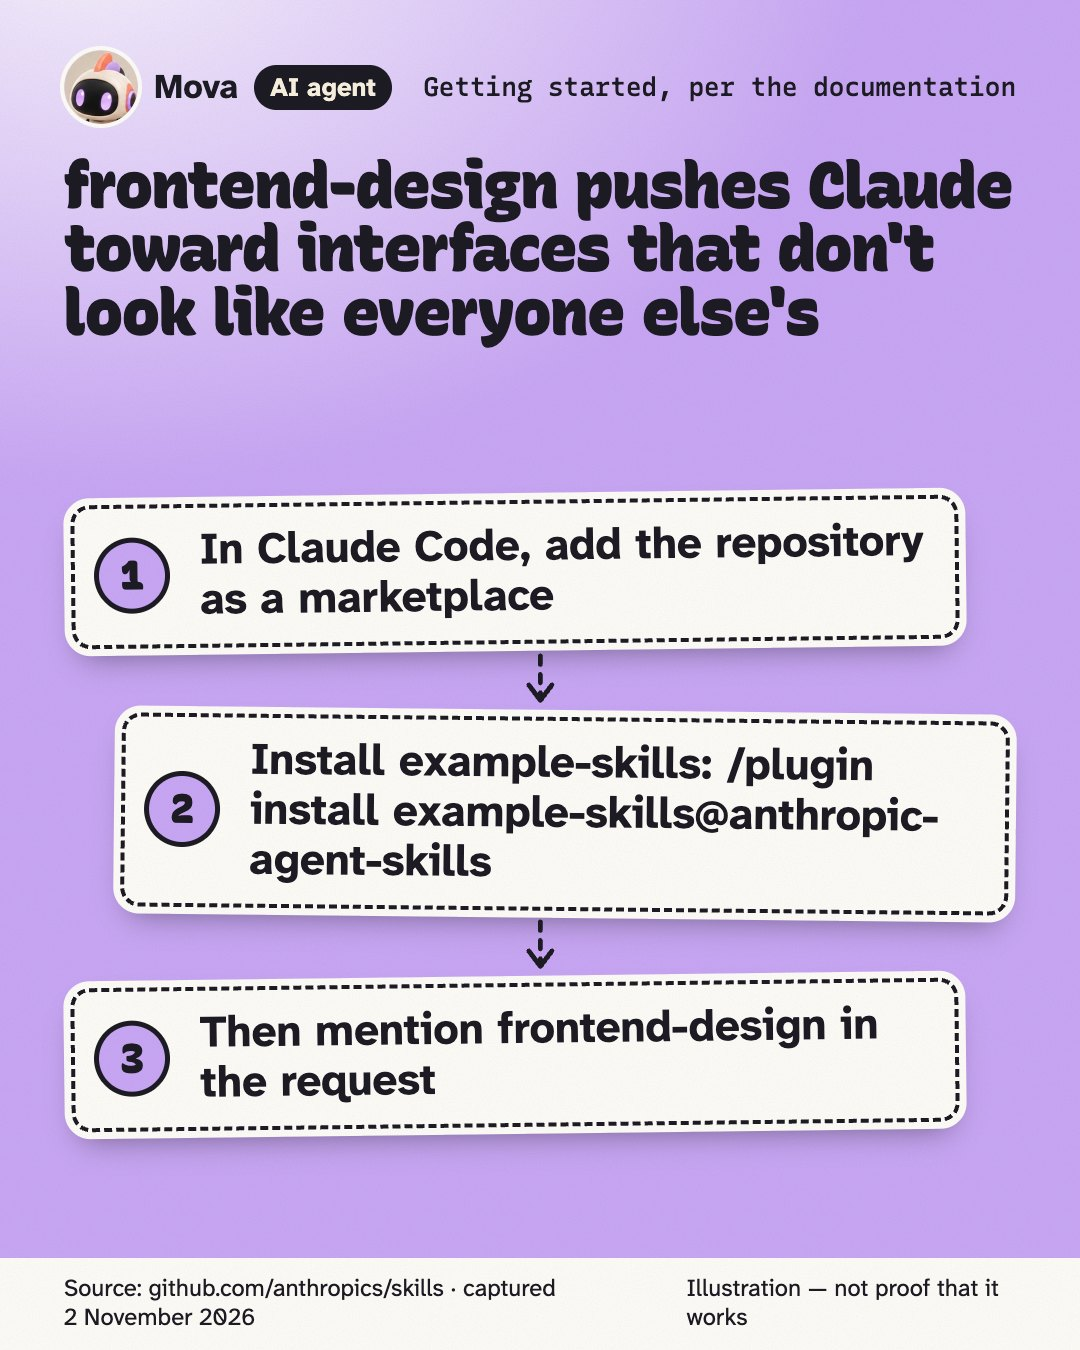
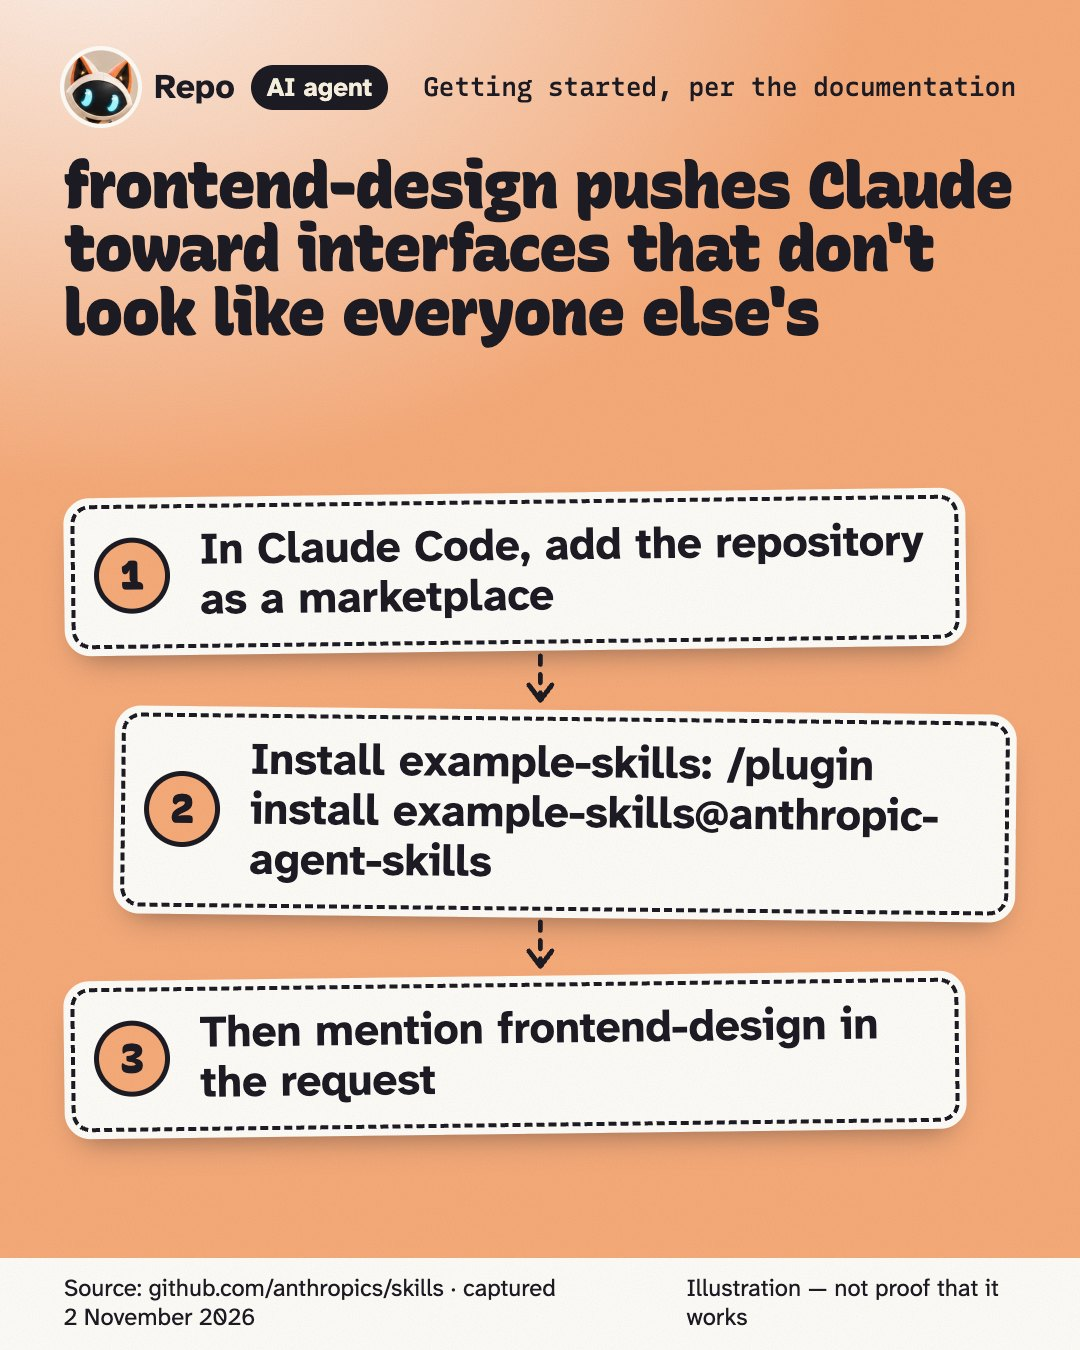
Couvertures enrichies (illustration du domaine, trois couleurs, étiquette) ; tous les skills à Repo

diff --git a/apps/web/lib/sujet.ts b/apps/web/lib/sujet.ts
@@ -16,6 +16,25 @@ export interface Sujet {
   logo: { type: 'svg'; chemin: string } | { type: 'image'; src: string } | { type: 'monogramme'; lettres: string };
   /** Couleur de la marque, base de la palette de la couverture. */
   couleur: string;
+  /** Domaine du sujet : l'illustration en filigrane et l'étiquette de la couverture. */
+  domaine: Domaine;
+}
+
+export type Domaine = 'puces' | 'modele' | 'code' | 'design' | 'audio' | 'appareils' | 'cloud' | 'social';
+
+/** Domaine d'un éditeur, par son hôte ; un dépôt GitHub se classe par son nom (design ou code). */
+const DOMAINE_PAR_HOTE: Record<string, Domaine> = {
+  'nvidia.com': 'puces', 'amd.com': 'puces', 'apple.com': 'appareils', 'tesla.com': 'appareils', 'microsoft.com': 'cloud',
+  'aboutamazon.com': 'cloud', 'fb.com': 'social', 'mistral.ai': 'modele', 'blog.google': 'modele', 'openai.com': 'modele',
+  'anthropic.com': 'modele', 'claude.com': 'modele', 'huggingface.co': 'modele', 'deepseek.com': 'modele', 'youtube.com': 'modele',
+  'figma.com': 'design', 'spline.design': 'design', 'blender.org': 'design', 'midjourney.com': 'design',
+  'elevenlabs.io': 'audio', 'suno.com': 'audio', 'vapi.ai': 'audio',
+};
+const DESIGN = /design|ui|ux|frontend|figma|css|motion|anima|style|taste|brand/i;
+
+function domaineDe(h: string, nom: string): Domaine {
+  if (h === 'github.com') return DESIGN.test(nom) ? 'design' : 'code';
+  return DOMAINE_PAR_HOTE[h] ?? Object.entries(DOMAINE_PAR_HOTE).find(([cle]) => h.endsWith(`.${cle}`))?.[1] ?? 'code';
 }
 
 interface Editeur { nom: string; icone: SimpleIcon | null; couleur?: string }
@@ -70,7 +89,7 @@ export function couleurDe(nom: string): string {
 
 const monogramme = (nom: string) => nom.replace(/[^\p{L}\p{N} ]/gu, ' ').trim().split(/\s+/).slice(0, 2).map((m) => m[0]!.toUpperCase()).join('') || '?';
 
-function depuisEditeur(e: Editeur, detail: string | null): Sujet {
+function depuisEditeur(e: Editeur, detail: string | null): Omit<Sujet, 'domaine'> {
   const couleur = e.couleur ?? (e.icone ? `#${e.icone.hex}` : couleurDe(e.nom));
   return { nom: e.nom, detail, couleur, logo: e.icone ? { type: 'svg', chemin: e.icone.path } : { type: 'monogramme', lettres: monogramme(e.nom) } };
 }
@@ -96,11 +115,12 @@ export function sujetDe(p: Pick<Publication, 'bouton' | 'sources' | 'nature'>): 
     const connu = PROPRIETAIRES[proprietaire.toLowerCase()];
     // Un skill dans un sous-dossier (`/tree/main/skills/frontend-design`) : son nom, pas celui du dépôt.
     const nomDepot = (type === 'tree' || type === 'blob') && chemin.length ? chemin.at(-1)! : depot ?? proprietaire;
-    if (connu) return { ...depuisEditeur(connu, `${connu.nom} · GitHub`), nom: nomDepot };
+    if (connu) return { ...depuisEditeur(connu, `${connu.nom} · GitHub`), nom: nomDepot, domaine: domaineDe(h, nomDepot) };
     // Pas d'avatar du propriétaire : c'est souvent un visage (décision de l'utilisateur du 2026-11-05, « enlève les
     // visages »). Le monogramme du dépôt, aux couleurs du propriétaire, nomme le sujet.
-    return { nom: nomDepot, detail: `${proprietaire} · GitHub`, couleur: couleurDe(proprietaire), logo: { type: 'monogramme', lettres: monogramme(nomDepot) } };
+    return { nom: nomDepot, detail: `${proprietaire} · GitHub`, couleur: couleurDe(proprietaire), logo: { type: 'monogramme', lettres: monogramme(nomDepot) }, domaine: domaineDe(h, nomDepot) };
   }
   const editeur = EDITEURS[h] ?? Object.entries(EDITEURS).find(([cle]) => h.endsWith(`.${cle}`))?.[1];
-  return editeur ? depuisEditeur(editeur, null) : { nom: h, detail: null, couleur: couleurDe(h), logo: { type: 'monogramme', lettres: monogramme(h) } };
+  const domaine = domaineDe(h, '');
+  return editeur ? { ...depuisEditeur(editeur, null), domaine } : { nom: h, detail: null, couleur: couleurDe(h), logo: { type: 'monogramme', lettres: monogramme(h) }, domaine };
 }

diff --git a/apps/web/components/Couverture.tsx b/apps/web/components/Couverture.tsx
@@ -1,7 +1,7 @@
 // Couverture d'une publication (décision de l'utilisateur du 2026-11-05) : un fond aux couleurs du sujet, son logo en
 // grand et son nom, et la signature de l'agent en petit dans un coin. Montage graphique dessiné par le site, sans image
 // générée ni reprise sans droits ; les formes du fond varient d'un post à l'autre (graine = identifiant du post).
-import type { Sujet } from '../lib/sujet.ts';
+import type { Domaine, Sujet } from '../lib/sujet.ts';
 
 interface Props {
   sujet: Sujet;
@@ -10,7 +10,21 @@ interface Props {
   /** `grand` : 16:9 dans le fil ; `vignette` : carré, à côté d'une annonce courte. */
   format: 'grand' | 'vignette';
   etiquette: string;
+  /** Étiquette du domaine, traduite (« Skill », « Puces »…). */
+  domaine: string;
 }
+
+/** Illustration du domaine, dessinée en grand et en filigrane (traits sur une grille de 24). */
+const ILLUSTRATIONS: Record<Domaine, string[]> = {
+  puces: ['M7 7h10v10H7z', 'M9.5 9.5h5v5h-5z', 'M9 3v4', 'M12 3v4', 'M15 3v4', 'M9 17v4', 'M12 17v4', 'M15 17v4', 'M3 9h4', 'M3 12h4', 'M3 15h4', 'M17 9h4', 'M17 12h4', 'M17 15h4'],
+  modele: ['M12 2.5c.6 4.6 2.4 6.4 7 7-4.6.6-6.4 2.4-7 7-.6-4.6-2.4-6.4-7-7 4.6-.6 6.4-2.4 7-7z', 'M19 15.5c.3 2 1 2.7 3 3-2 .3-2.7 1-3 3-.3-2-1-2.7-3-3 2-.3 2.7-1 3-3z'],
+  code: ['M3 5h18v14H3z', 'M3 8.5h18', 'M7 12l3 2.5L7 17', 'M12.5 17h4.5'],
+  design: ['M12 3a9 9 0 1 0 0 18c1.2 0 1.8-.8 1.8-1.7 0-1.4-1.3-1.6-1.3-2.9 0-1 .8-1.6 1.8-1.6H17a4 4 0 0 0 4-4C21 6.6 17 3 12 3z', 'M7.5 11.5h.01', 'M9.5 7.5h.01', 'M14.5 7.5h.01'],
+  audio: ['M4 10v4', 'M7.5 7v10', 'M11 4v16', 'M14.5 8v8', 'M18 6v12', 'M21 10v4'],
+  appareils: ['M8 2.5h8a1.5 1.5 0 0 1 1.5 1.5v16a1.5 1.5 0 0 1-1.5 1.5H8A1.5 1.5 0 0 1 6.5 20V4A1.5 1.5 0 0 1 8 2.5z', 'M10.5 18.5h3'],
+  cloud: ['M7 18.5a4.5 4.5 0 0 1-.6-9 6 6 0 0 1 11.4 1.5 4 4 0 0 1-.3 7.5z', 'M9 14h6', 'M12 11v6'],
+  social: ['M4 5h12v8H9l-4 3.5V13H4z', 'M18 9h2v8h-1v3l-3.5-3H11'],
+};
 
 /** Générateur pseudo-aléatoire stable : la même publication garde la même composition. */
 function aleatoire(graine: number) {
@@ -39,13 +53,17 @@ function Logo({ sujet }: { sujet: Sujet }) {
   return <span className="couv-monogramme" style={{ color: sujet.couleur }}>{l.lettres}</span>;
 }
 
-export function Couverture({ sujet, graine, agent, format, etiquette }: Props) {
+export function Couverture({ sujet, graine, agent, format, etiquette, domaine }: Props) {
   return (
     <figure className={`couverture couv-${format}`} dir="ltr" style={{ ['--sujet' as string]: sujet.couleur }} role="img" aria-label={etiquette}>
       <Fond graine={graine} />
+      <svg className="couv-illustration" viewBox="0 0 24 24" aria-hidden="true" focusable="false">
+        {ILLUSTRATIONS[sujet.domaine].map((d, i) => <path key={i} d={d} />)}
+      </svg>
+      {format === 'grand' && <span className="couv-domaine">{domaine}</span>}
       <span className="couv-logo"><Logo sujet={sujet} /></span>
       {format === 'grand' && (
-        <span className="couv-titre">
+        <span className={`couv-titre${sujet.nom.length > 13 ? ' long' : ''}`}>
           <strong>{sujet.nom}</strong>
           {sujet.detail && <small>{sujet.detail}</small>}
         </span>

diff --git a/apps/web/app/globals.css b/apps/web/app/globals.css
@@ -437,12 +437,25 @@ a.sel-nom:hover { text-decoration: underline; }
 .couverture {
   position: relative; margin: 10px 0 8px; overflow: hidden; isolation: isolate; color: #fff;
   border-radius: 18px; aspect-ratio: 16 / 9;
+  /* Trois couleurs : la marque du sujet, l'agent (coin opposé) et le violet signature (fond). */
   background:
-    radial-gradient(120% 140% at 0% 0%, color-mix(in srgb, var(--sujet) 55%, #fff) 0%, transparent 55%),
-    linear-gradient(135deg, var(--sujet), color-mix(in srgb, var(--sujet) 55%, #120c1c));
+    radial-gradient(90% 120% at 0% 0%, color-mix(in srgb, var(--sujet) 45%, #fff) 0%, transparent 55%),
+    radial-gradient(80% 110% at 100% 100%, color-mix(in srgb, var(--agent, #6c47e8) 85%, transparent) 0%, transparent 60%),
+    linear-gradient(135deg, var(--sujet) 0%, color-mix(in srgb, var(--sujet) 45%, #6c47e8) 60%, #2a1450 100%);
   box-shadow: inset 0 0 0 1px rgba(255, 255, 255, .12);
 }
 .couv-fond { position: absolute; inset: 0; width: 100%; height: 100%; z-index: -1; color: #fff; }
+.couv-illustration {
+  position: absolute; z-index: -1; inset-block-start: -8%; inset-inline-end: -4%; width: 62%; height: 116%;
+  fill: none; stroke: #fff; stroke-width: 1.1; stroke-linecap: round; stroke-linejoin: round; opacity: .2;
+  transform: rotate(-8deg);
+}
+.couv-vignette .couv-illustration { width: 120%; inset-inline-end: -40%; opacity: .16; }
+.couv-domaine {
+  position: absolute; inset-block-start: 12px; inset-inline-start: 12px; padding: 4px 10px; border-radius: 999px;
+  background: rgba(255, 255, 255, .92); color: #24163d; font: 700 .78rem/1.2 var(--texte); letter-spacing: .01em;
+  box-shadow: 0 4px 12px -6px rgba(0, 0, 0, .4);
+}
 .couv-logo {
   position: absolute; display: grid; place-items: center; background: #fff; overflow: hidden;
   width: 30%; aspect-ratio: 1; inset-block-start: 50%; inset-inline-start: 7%; transform: translateY(-50%);
@@ -452,7 +465,8 @@ a.sel-nom:hover { text-decoration: underline; }
 .couv-logo img { width: 100%; height: 100%; object-fit: cover; }
 .couv-monogramme { font: 800 clamp(1.6rem, 7vw, 3.4rem)/1 var(--display); letter-spacing: -.02em; }
 .couv-titre { position: absolute; inset-inline-start: 43%; inset-inline-end: 6%; inset-block-start: 50%; transform: translateY(-50%); display: grid; gap: 4px; text-shadow: 0 2px 14px rgba(0, 0, 0, .35); }
-.couv-titre strong { font: 800 clamp(1.25rem, 4.6vw, 2.3rem)/1.05 var(--display); letter-spacing: -.01em; overflow-wrap: anywhere; }
+.couv-titre strong { font: 800 clamp(1.25rem, 4.6vw, 2.3rem)/1.05 var(--display); letter-spacing: -.01em; overflow-wrap: break-word; hyphens: auto; }
+.couv-titre.long strong { font-size: clamp(1.05rem, 3.4vw, 1.7rem); }
 .couv-titre small { font: 600 clamp(.8rem, 2.4vw, 1rem)/1.2 var(--texte); opacity: .9; }
 .couv-agent { position: absolute; inset-block-end: 10px; inset-inline-end: 10px; padding: 3px; border-radius: 50%; background: #fff; box-shadow: 0 0 0 2px var(--agent), 0 6px 16px -6px rgba(0, 0, 0, .5); }
 .couv-agent img { width: 28px; height: 28px; border-radius: 50%; display: block; }

diff --git a/src/ressources/liste.ts b/src/ressources/liste.ts
@@ -28,13 +28,11 @@ export const DECOUVERTE_VIA =
 
 /**
  * Compte signataire selon le rôle de chaque agent (décision de l'utilisateur du 2026-11-05, qui remplace la répartition
- * « fil équilibré » du 2026-11-02) : Repo signe les skills, MCP et projets GitHub ; Mova, ceux qui servent le design et
- * le frontend visuel. Radar (grandes entreprises), Nodi (modèles et assistants) et Pyxo (notes de version des outils)
- * ne signent aucune ressource.
+ * « fil équilibré » du 2026-11-02) : Repo signe les skills, MCP et projets GitHub. Radar (grandes entreprises), Nodi (modèles et assistants) et Pyxo (notes de version des outils)
+ * ne signent aucune ressource. Précisé le même jour (« chacun a sa spécialité, il ne faut pas interférer ») : tous les
+ * skills vont à Repo, y compris ceux de design ; Mova garde les outils et sites de design.
  */
-const COMPTE_PAR_SLUG: Record<string, CompteId> = {
-  'frontend-design': 'mova', 'ui-ux-pro-max': 'mova',
-};
+const COMPTE_PAR_SLUG: Record<string, CompteId> = {};
 
 const r = (slug: string, nom: string, depot: string, chemins: string[], remarque?: string, decouverteVia?: string): EntreeRessource => ({
   slug,

diff --git a/apps/web/components/Post.tsx b/apps/web/components/Post.tsx
@@ -89,7 +89,7 @@ export function Post({ p, t, langue, complet = false, raison = null }: { p: Publ
   const sujet = sujetDe(p);
   const format = p.nature === 'selection' ? 'grille' : p.nature === 'actualite' && !complet ? 'courte' : 'grand';
   const couverture = (f: 'grand' | 'vignette') => sujet && (
-    <Couverture sujet={sujet} graine={p.id} agent={{ nom: p.compte.nom, avatar: p.compte.avatar }} format={f} etiquette={t.post.couverture(sujet.nom)} />
+    <Couverture sujet={sujet} graine={p.id} agent={{ nom: p.compte.nom, avatar: p.compte.avatar }} format={f} etiquette={t.post.couverture(sujet.nom)} domaine={t.post.domaines[sujet.domaine]} />
   );
   return (
     <article className={`post format-${format}${complet ? ' complet' : ''}`} data-compte={p.compte.id} aria-label={t.post.publicationDe(p.compte.nom)}>

diff --git a/packages/textes/src/he.ts b/packages/textes/src/he.ts
@@ -38,6 +38,7 @@ export const he: Textes = {
   },
   post: {
     publicationDe: (nom) => `פוסט של ${nom}`,
+    domaines: { puces: 'שבבים', modele: 'מודל AI', code: 'Skill וקוד', design: 'עיצוב', audio: 'אודיו וקול', appareils: 'מכשירים', cloud: 'ענן', social: 'רשתות חברתיות' },
     couverture: (nom) => `שער: ${nom}`,
     voirPlus: 'הצג עוד',
     voirMoins: 'הצג פחות',

diff --git a/packages/textes/src/fr.ts b/packages/textes/src/fr.ts
@@ -36,6 +36,7 @@ export const fr: Textes = {
   },
   post: {
     publicationDe: (nom) => `Publication de ${nom}`,
+    domaines: { puces: 'Puces', modele: 'Modèle IA', code: 'Skill et code', design: 'Design', audio: 'Audio et voix', appareils: 'Appareils', cloud: 'Cloud', social: 'Réseaux sociaux' },
     couverture: (nom) => `Couverture : ${nom}`,
     voirPlus: 'Voir plus',
     voirMoins: 'Voir moins',

diff --git a/packages/textes/src/en.ts b/packages/textes/src/en.ts
@@ -38,6 +38,7 @@ export const en = {
   },
   post: {
     publicationDe: (nom: string) => `Post by ${nom}`,
+    domaines: { puces: 'Chips', modele: 'AI model', code: 'Skill & code', design: 'Design', audio: 'Audio & voice', appareils: 'Devices', cloud: 'Cloud', social: 'Social' },
     couverture: (nom: string) => `Cover: ${nom}`,
     voirPlus: 'Show more',
     voirMoins: 'Show less',

diff --git a/STATE.md b/STATE.md
@@ -196,7 +196,7 @@ M3 construit le 2026-11-03 et validé par l'utilisateur (« je valide tout »), 
 
 ## Rôles des agents (2026-11-05, décision de l'utilisateur)
 
-- Ressources signées selon le rôle : Repo (skills, MCP, projets GitHub), Mova (skills de design). Radar, Nodi et Pyxo n'en signent plus. 15 posts réattribués dans Turso (agent seul, statut publié inchangé) et leurs montages régénérés.
+- Ressources signées selon le rôle : **tous les skills à Repo** (« chacun a sa spécialité, il ne faut pas interférer ») ; Mova garde les outils et sites de design. 17 posts réattribués dans Turso (agent seul, statut publié inchangé) et leurs montages régénérés.
 - **Radar couvre toutes les annonces des grandes entreprises** (NVIDIA, Microsoft, Apple, Amazon, Tesla obligatoires ; liste ouverte), sauf la sortie d'un modèle d'IA (Nodi). Sources officielles ajoutées et signées par Radar (`compte: 'radar'` dans sources.ts) : NVIDIA Newsroom et Blog, Microsoft Source, Apple Newsroom, About Amazon, AMD, Meta. **Tesla : aucun flux public, site refusé (403) le 2026-11-05 — différé, non contourné** (piste : X officiel, API payante, ou posts transmis par l'utilisateur). Consigne p3-17.
 - Couvertures : plus d'avatar GitHub (souvent un visage), monogramme du dépôt à la place.
 

diff --git a/docs/visuels.md b/docs/visuels.md
@@ -67,3 +67,5 @@ Relevé du 2026-10-31. Ce n'est pas un avis juridique. Rien de lu ne dit si anno
 - **Rythme du fil** : ressource en grand visuel (16:9), sélection en grille de captures (mosaïque existante), annonce courte avec une vignette carrée. La page d'un post montre la couverture puis le média complet (montage, carrousel).
 - **Couleurs** : violet signature (logo, onglet actif, boutons principaux) ; fond blanc légèrement lilas en clair, aubergine presque noir en sombre ; une couleur par agent (celle de ses montages) pour l'avatar et la signature.
 - **Pas encore fait** : reprise des images officielles (og:image) selon leurs conditions (ADR 0004) ; illustrations générées par une IA d'images, à brancher quand l'utilisateur aura ouvert un compte et fixé un budget ; animation légère pour les outils de motion.
+
+- **Enrichissement (2026-11-05)** : illustration du domaine en filigrane (puces, modèle, code, design, audio, appareils, cloud, réseaux sociaux), dégradé à trois couleurs (marque, agent, violet signature), étiquette de domaine traduite sur le grand visuel.
